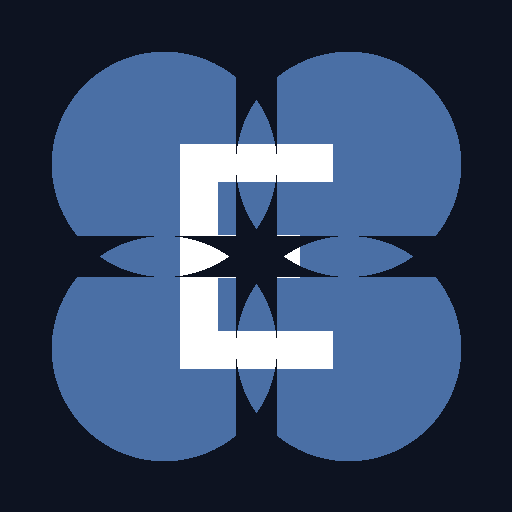
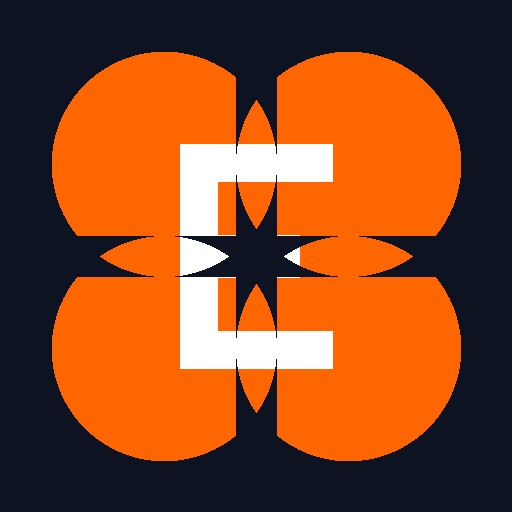
Add files via upload

diff --git a/index.html b/index.html
@@ -11,7 +11,7 @@
   <meta name="apple-mobile-web-app-status-bar-style" content="black-translucent"/>
   <meta name="apple-mobile-web-app-title" content="Eisenhower"/>
   <link rel="apple-touch-icon" href="icon-192.png"/>
-  <meta name="theme-color" content="#4A6FA5"/>
+  <meta name="theme-color" content="#FF6600"/>
   <!-- ════════════ -->
 
   <script src="https://cdn.jsdelivr.net/npm/sortablejs@1.15.2/Sortable.min.js"></script>
@@ -142,9 +142,9 @@
 </head>
 <body>
 
-<div id="update-banner" style="display:none;position:fixed;bottom:0;left:0;right:0;background:#4A6FA5;color:#fff;padding:14px 16px;z-index:9999;align-items:center;justify-content:space-between;gap:12px;font-family:-apple-system,sans-serif;">
+<div id="update-banner" style="display:none;position:fixed;bottom:0;left:0;right:0;background:#FF6600;color:#fff;padding:14px 16px;z-index:9999;align-items:center;justify-content:space-between;gap:12px;font-family:-apple-system,sans-serif;">
   <span style="font-size:.85rem;">🔄 Nouvelle version disponible !</span>
-  <button onclick="doUpdate()" style="background:#fff;color:#4A6FA5;border:none;border-radius:8px;padding:8px 16px;font-size:.82rem;font-weight:700;cursor:pointer;">Mettre à jour</button>
+  <button onclick="doUpdate()" style="background:#fff;color:#FF6600;border:none;border-radius:8px;padding:8px 16px;font-size:.82rem;font-weight:700;cursor:pointer;">Mettre à jour</button>
   <button onclick="document.getElementById('update-banner').style.display='none'" style="background:none;border:none;color:rgba(255,255,255,.7);font-size:1.1rem;cursor:pointer;">✕</button>
 </div>
 <div class="save-badge" id="save-badge">✓ Sauvegardé</div>

diff --git a/sw.js b/sw.js
@@ -1,4 +1,4 @@
-const CACHE = 'eisenhower-v2';
+const CACHE = 'eisenhower-v3';
 const ASSETS = [
   '/Eisenhower_PWA/',
   '/Eisenhower_PWA/index.html',